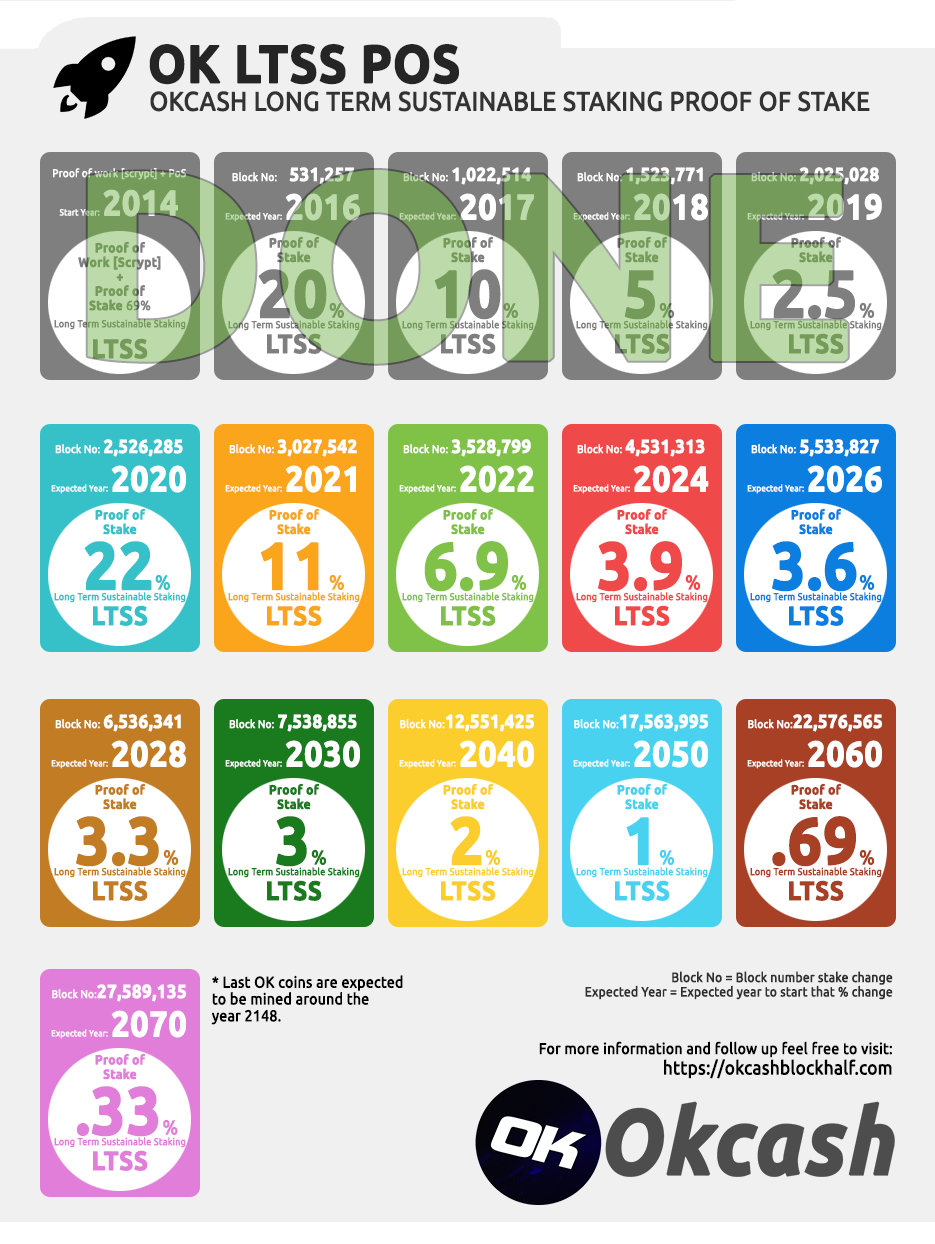
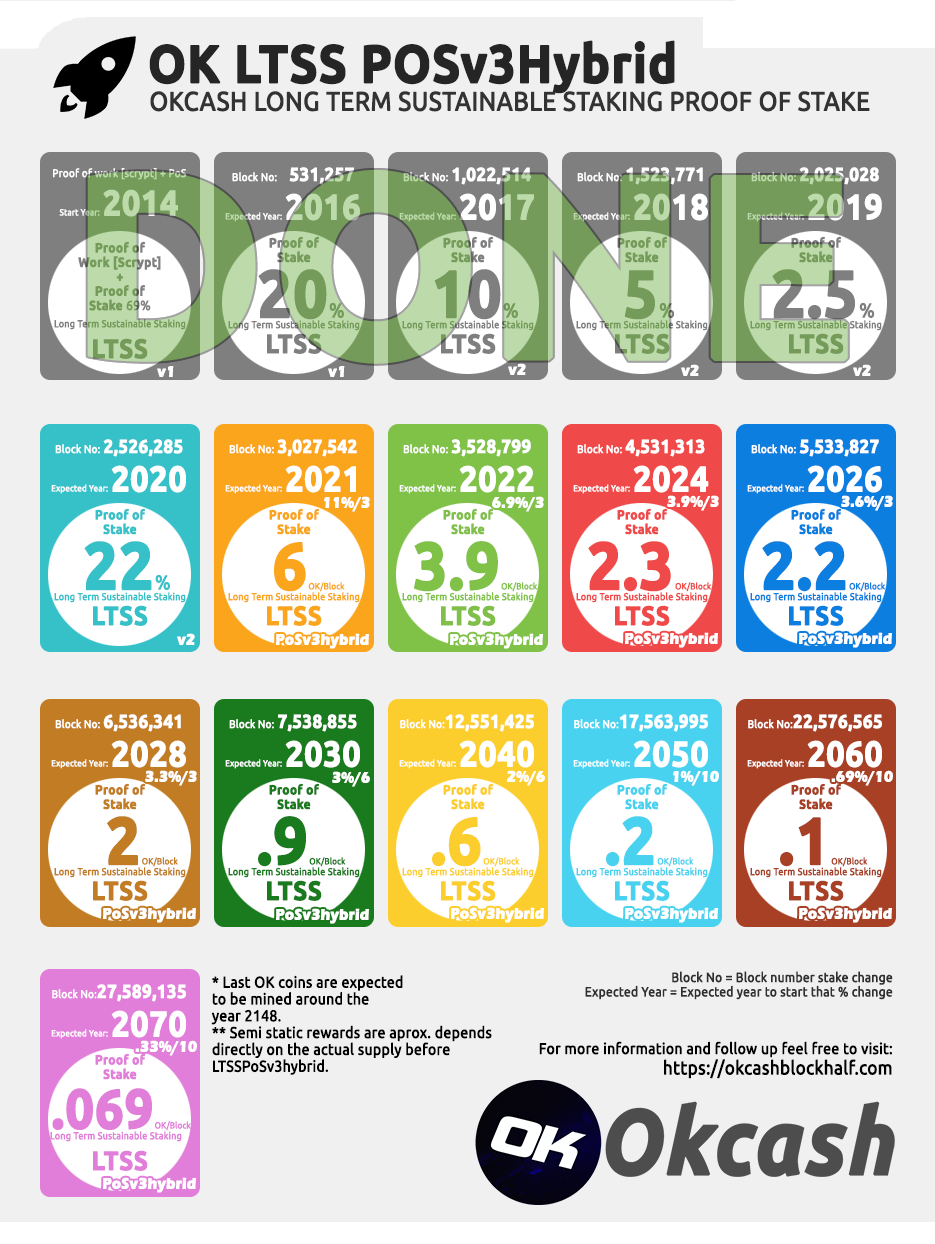
posv3hybrid upgrade1

diff --git a/index.php b/index.php
@@ -122,7 +122,7 @@ $brlprice = file_get_contents("txt/brlprice.txt");
         <h2>What is a block halving event?</h2>
 		<p> As part of Okcash's coin issuance, miners/stakers are rewarded a certain amount of Okcash coins whenever a block is produced (approximately every 69 seconds).<br/>
 		When Okcash first started, 2000 OK coins per block were given as a reward to PoW miners. After the block number 33,186 PoW evolved to LTSS PoS and halvings have been ocurring at different time schedules taking in consideration 501,257 blocks per year, the block reward halves and will keep on halving until the block 27,589,135 (approximately by year 2070). <br/>
-		As of now, the block reward is under the LTSS PoSv2 system at a rate of <b>22%</b> per year [Variable block reward + variable network growth by net staking percentage] and will decrease and evolve to LTSS PoSv3hybrid after next halving with reward of <b>5.8</b> OK coins per block [Semi-static block reward + predictable network growth no matter net staking percentage, achieving Bitcoin predictability under Okcash unique LTSS PoS System.(Energy Friendly)]</p>
+		As of now, the block reward is under the LTSS PoSv2 system at a rate of <b>22%</b> per year [Variable block reward + variable network growth by net staking percentage] and will decrease and evolve to LTSS PoSv3hybrid after next halving with reward of <b>6</b> OK coins per block [Semi-static block reward + predictable network growth no matter net staking percentage, achieving Bitcoin predictability under Okcash unique LTSS PoS System.(Energy Friendly)]</p>
 
 		<h2> Why was this done?</h2>
 		<p> Okcash was designed as a deflationary currency. Like gold and Bitcoin, the premise is that over time, the issuance of OK coins will decrease and thus become scarcer over time. As Okcash become scarcer and if demand for them increases over time, Okcash can be used as a hedge against inflation as the price, guided by price equilibrium is bound to increase. On the flip side, fiat currencies (like the US dollar), inflate over time as its monetary supply increases, leading to a decrease in purchasing power. This is known as monetary debasement by inflation. A simple example would be to compare housing prices decades ago to now and you'll notice that they've increased over time!</p>
@@ -167,7 +167,7 @@ $brlprice = file_get_contents("txt/brlprice.txt");
 			<tr><td><b>OK price (BRL):</b></td><td align = "right">R$ <?=number_format($brlprice, 4);?> <img src="../images/flag-brazil.png"></td></tr>
 			<tr><td><b>OK Market capitalization (USD):</b></td><td align = "right">$<?=number_format($coins * $price, 2);?></td></tr>
 			<tr><td><b>Okcash inflation rate per annum:</b></td><td align = "right"><?=number_format($okstakereward / 1, 2);?>% / (1/3) Net Staking</td></tr>
-			<tr><td><b>Okcash inflation rate per annum after next block change event:</b></td><td align = "right">11 % / (1/3) Net Staking = Next Net Growth Staking <?=number_format((($okstakereward /2) / 3), 2) . ' % Year';?></td></tr> 
+			<tr><td><b>Okcash inflation rate per annum after next block change event:</b></td><td align = "right"><b>6 OK</b> / Block Reward</td></tr> 
 			<tr><td><b>Okcash inflation per day (USD):</b></td><td align = "right">$<?=number_format($blocksPerDay * $blockReward * $price);?></td></tr>
 			<tr><td><b>Okcash inflation until next blockhalf event based on current price (USD):</b></td><td align = "right">$<?=number_format(($coinsRemaining / 3) * $price);?></td></tr>
 			<tr><td><b>Total blocks:</b></td><td align = "right"><a href="https://chainz.cryptoid.info/ok/" target="_blank"><span class="gg"><?=number_format($blocks);?></a></span></td></tr>
